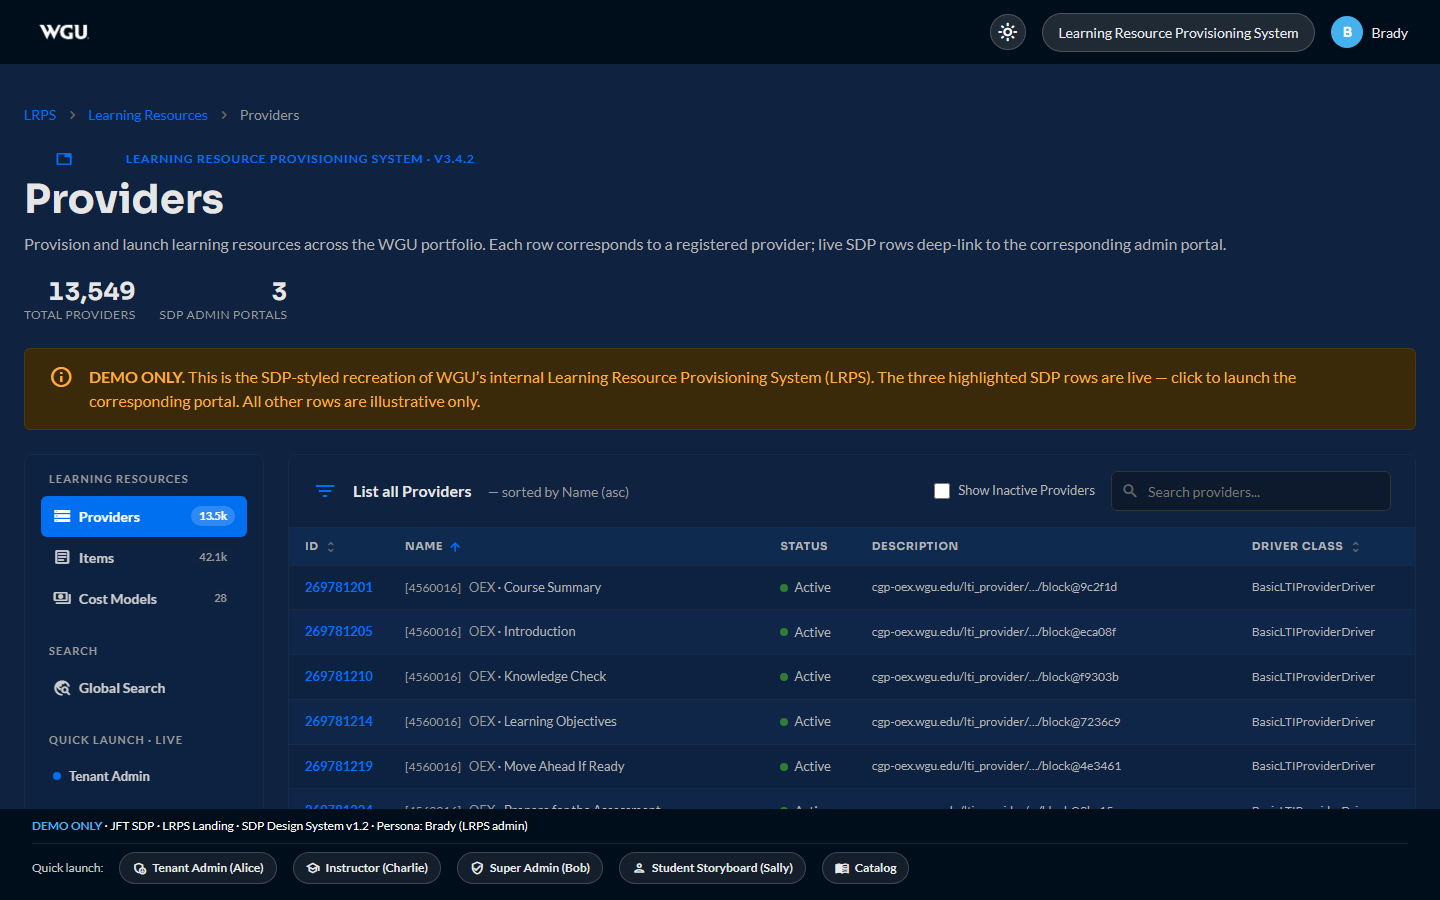
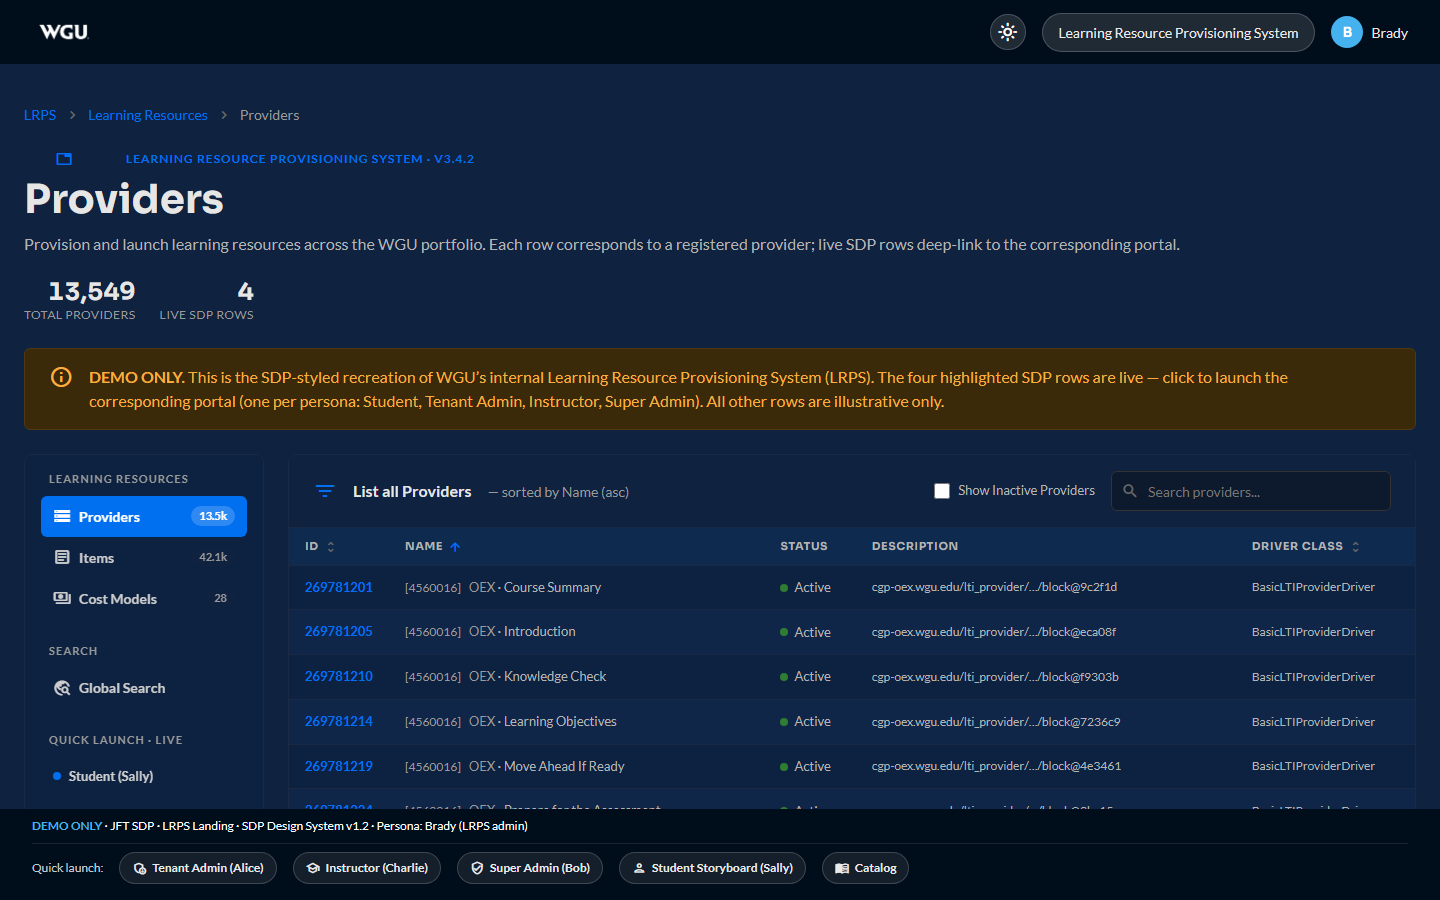
Add Student launch to LRPS — all 4 user flows now reachable from LRPS
Promotes the SDP Coding Coach (Student) row from filler to a live,
clickable provider that deep-links to ../student/. Mirrors the
launch pattern of the three admin portal rows so the LRPS landing
is now a unified entry point for every persona in the storyboard.

Changes to lrps/index.html:
- Row 269781248 (SDP Coding Coach — Student LTI 1.3) gains
  class="live", tabindex="0", data-launch="../student/", and
  aria-label. Renamed to [SDP-ST] tag (matches [SDP-TA], [SDP-IN],
  [SDP-SA] convention). "Launch ↗" link added to the actions cell.
  Tinted Ice Blue + 4px brand-blue left edge via the existing
  .live row CSS.
- Sidebar "Quick Launch · Live" gains a Student (Sally) entry at
  the top, ahead of the three admin shortcuts.
- DEMO ONLY banner: "three highlighted SDP rows" -> "four
  highlighted SDP rows", with parenthetical roll-call of the four
  personas (Student, Tenant Admin, Instructor, Super Admin).
- Page-stats counter: "3 SDP ADMIN PORTALS" -> "4 LIVE SDP ROWS"
  (the count now spans student + 3 admin).

Architectural note:
In production the student would launch via LTI 1.3 from zyBooks,
not from LRPS. The LRPS row is included here for storyboard
discoverability — Brady (or any LRPS admin) can launch the student
flow directly to verify config without needing zyBooks. The desc
column still shows the canonical LTI launch URL
sdp.wgu.edu/lti/launch?subject=e010&role=student to preserve the
architectural truth.

Screenshots regenerated for both themes.

diff --git a/lrps/index.html b/lrps/index.html
@@ -692,7 +692,7 @@
       <div>
         <span class="eyebrow"><span class="material-icons-outlined">database</span>Learning Resource Provisioning System · v3.4.2</span>
         <h1>Providers</h1>
-        <p class="mt-1">Provision and launch learning resources across the WGU portfolio. Each row corresponds to a registered provider; live SDP rows deep-link to the corresponding admin portal.</p>
+        <p class="mt-1">Provision and launch learning resources across the WGU portfolio. Each row corresponds to a registered provider; live SDP rows deep-link to the corresponding portal.</p>
       </div>
       <div class="page-stats">
         <div class="page-stat">
@@ -700,8 +700,8 @@
           <div class="page-stat-label">Total providers</div>
         </div>
         <div class="page-stat">
-          <div class="page-stat-num text-success">3</div>
-          <div class="page-stat-label">SDP admin portals</div>
+          <div class="page-stat-num text-success">4</div>
+          <div class="page-stat-label">Live SDP rows</div>
         </div>
       </div>
     </div>
@@ -709,7 +709,7 @@
     <div class="alert alert-warning mb-3">
       <span class="material-icons-outlined">info</span>
       <div>
-        <strong>DEMO ONLY.</strong> This is the SDP-styled recreation of WGU&rsquo;s internal Learning Resource Provisioning System (LRPS). The three highlighted SDP rows are live &mdash; click to launch the corresponding portal. All other rows are illustrative only.
+        <strong>DEMO ONLY.</strong> This is the SDP-styled recreation of WGU&rsquo;s internal Learning Resource Provisioning System (LRPS). The four highlighted SDP rows are live &mdash; click to launch the corresponding portal (one per persona: Student, Tenant Admin, Instructor, Super Admin). All other rows are illustrative only.
       </div>
     </div>
 
@@ -742,6 +742,9 @@
         </div>
         <div class="sidebar-section">
           <div class="sidebar-heading">Quick Launch · Live</div>
+          <a class="sidebar-link" href="../student/" style="font-size:13px;">
+            <span class="dot blue"></span>Student (Sally)
+          </a>
           <a class="sidebar-link" href="../tenant_admin/" style="font-size:13px;">
             <span class="dot blue"></span>Tenant Admin
           </a>
@@ -873,15 +876,17 @@
                   <td class="date-cell">12 Apr 2026</td>
                   <td class="actions-cell"></td>
                 </tr>
-                <tr>
+                <tr class="live" tabindex="0" data-launch="../student/" aria-label="Launch SDP Coding Coach (Student)">
                   <td class="id-cell">269781248</td>
-                  <td class="name-cell"><span class="name-tag">[4560042]</span><span class="text-muted">SDP</span> · Coding Coach — Student (LTI 1.3)</td>
+                  <td class="name-cell lrps-name"><span class="name-tag">[SDP-ST]</span>SDP Coding Coach — Student (LTI 1.3)</td>
                   <td><span class="status-pill"><span class="dot green"></span>Active</span></td>
                   <td class="desc-cell">sdp.wgu.edu/lti/launch?subject=e010&amp;role=student</td>
                   <td class="driver-cell">SDPLTIProviderDriver</td>
                   <td>Brady</td>
-                  <td class="date-cell">30 Apr 2026</td>
-                  <td class="actions-cell"></td>
+                  <td class="date-cell">07 May 2026</td>
+                  <td class="actions-cell">
+                    <span class="launch-link">Launch <span class="material-icons-outlined">open_in_new</span></span>
+                  </td>
                 </tr>
 
                 <!-- =========================================================
